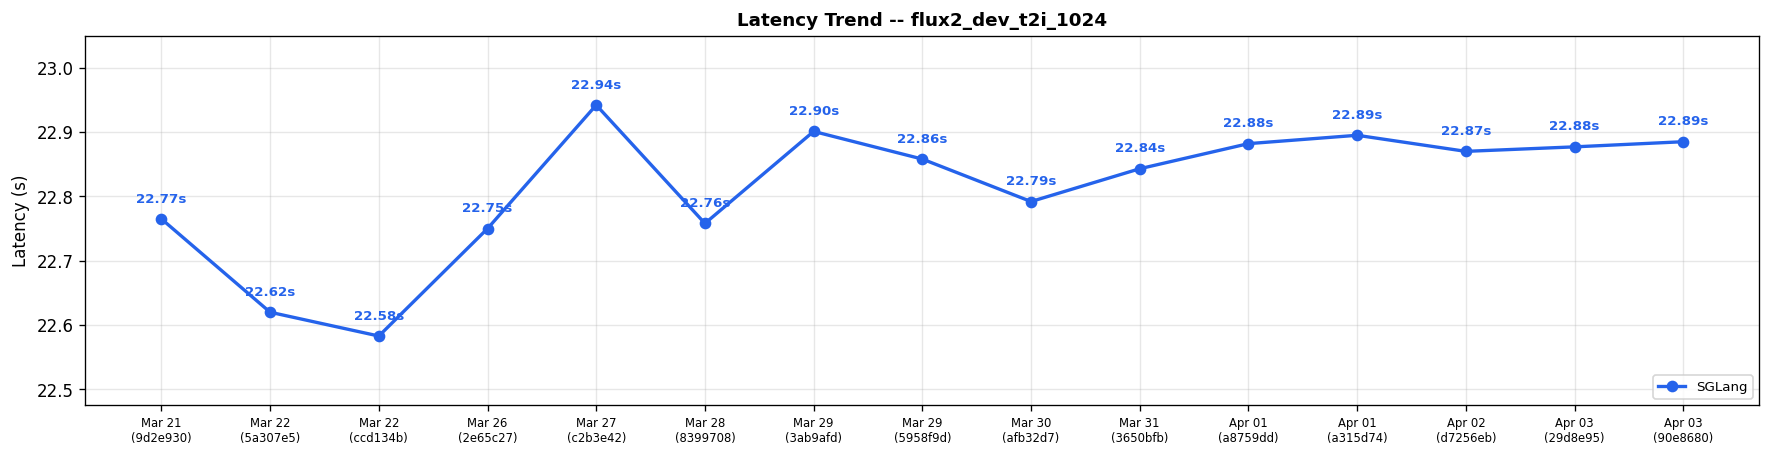
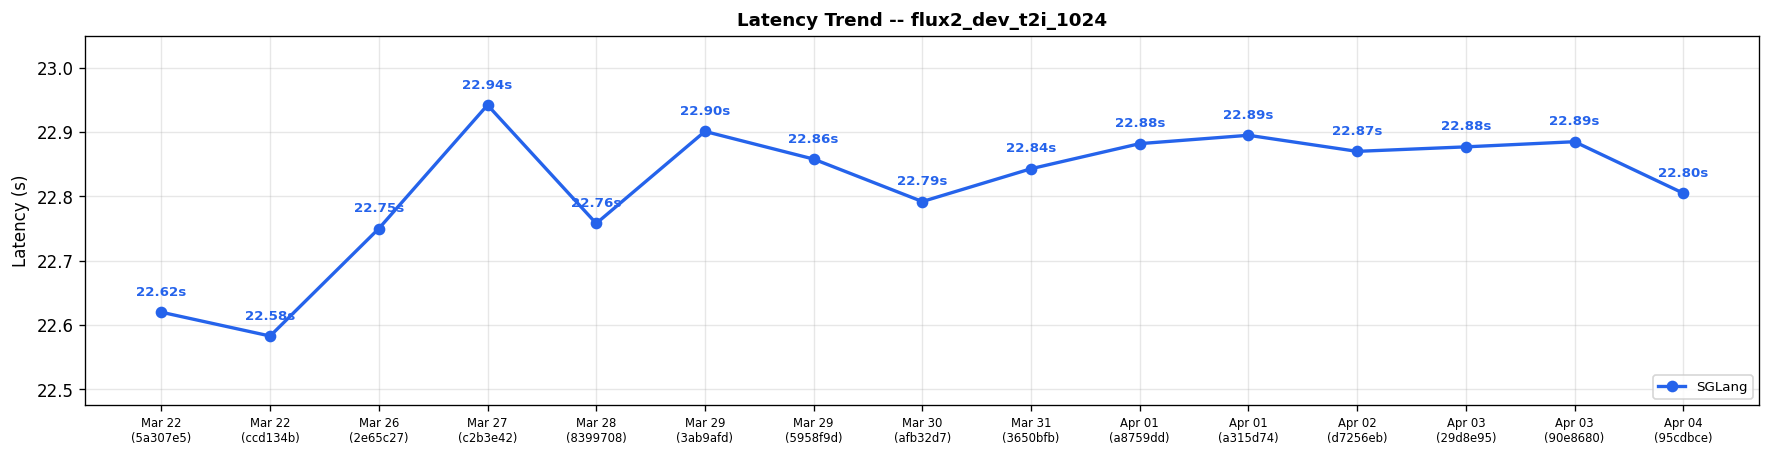
Diffusion comparison results for run 23967509528 (#553)

diff --git a/diffusion-comparisons/dashboard.md b/diffusion-comparisons/dashboard.md
@@ -1,24 +1,25 @@
 # Diffusion Cross-Framework Performance Dashboard
 
-*Generated: Apr 03 | Commit: `90e8680`*
+*Generated: Apr 04 | Commit: `95cdbce`*
 
 ## Cross-Framework Performance Comparison
 
 | Model | Risk | sglang (s) |
 |-------|------|---------|
-| FLUX.1-dev | ✅ | **6.72** |
-| FLUX.2-dev | ✅ | **22.89** |
-| Qwen-Image-2512 | ✅ | **13.57** |
-| Qwen-Image-Edit-2511 | ✅ | **29.56** |
+| FLUX.1-dev | ✅ | **6.68** |
+| FLUX.2-dev | ✅ | **22.80** |
+| Qwen-Image-2512 | ✅ | **13.51** |
+| Qwen-Image-Edit-2511 | ✅ | **29.41** |
 | Z-Image-Turbo | ✅ | **0.93** |
-| Wan2.2-T2V-A14B-Diffusers | ✅ | **16.09** |
-| Wan2.2-TI2V-5B-Diffusers | ✅ | **62.17** |
-| Wan2.2-I2V-A14B-Diffusers | ✅ | **21.06** |
+| Wan2.2-T2V-A14B-Diffusers | ✅ | **16.14** |
+| Wan2.2-TI2V-5B-Diffusers | ✅ | **63.19** |
+| Wan2.2-I2V-A14B-Diffusers | ✅ | **21.07** |
 
 ## SGLang Performance Trend (Last 15 Runs)
 
 | Date | Commit | flux1_dev_t2i_1024 (s) | flux2_dev_t2i_1024 (s) | qwen_image_2512_t2i_1024 (s) | qwen_image_edit_2511 (s) | zimage_turbo_t2i_1024 (s) | wan22_t2v_a14b_720p (s) | wan22_ti2v_5b_720p (s) | wan22_i2v_a14b_720p (s) | Trend |
 |------|--------|---------|---------|---------|---------|---------|---------|---------|---------|-------|
+| Apr 04 | `95cdbce` | 6.68 | 22.80 | 13.51 | 29.41 | 0.93 | 16.14 | 63.19 | 21.07 | :left_right_arrow:  :left_right_arrow:  :left_right_arrow:  :left_right_arrow:  :left_right_arrow:  :left_right_arrow:  :left_right_arrow:  :left_right_arrow: |
 | Apr 03 | `90e8680` | 6.72 | 22.89 | 13.57 | 29.56 | 0.93 | 16.09 | 62.17 | 21.06 | :left_right_arrow:  :left_right_arrow:  :left_right_arrow:  :left_right_arrow:  :left_right_arrow:  :arrow_down:  :left_right_arrow:  :left_right_arrow: |
 | Apr 03 | `29d8e95` | 6.69 | 22.88 | 13.55 | 29.62 | 0.93 | 16.57 | 62.18 | 21.07 | :left_right_arrow:  :left_right_arrow:  :arrow_up:  :left_right_arrow:  :left_right_arrow:  :arrow_up:  :left_right_arrow:  :arrow_down: |
 | Apr 02 | `d7256eb` | 6.70 | 22.87 | 13.18 | 29.59 | 0.93 | 16.11 | 62.20 | 22.07 | :left_right_arrow:  :left_right_arrow:  :left_right_arrow:  :left_right_arrow:  :left_right_arrow:  :left_right_arrow:  :left_right_arrow:  :left_right_arrow: |
@@ -32,8 +33,7 @@
 | Mar 27 | `c2b3e42` | 6.70 | 22.94 | 13.18 | 29.64 | 0.93 | 16.11 | 62.21 | 10.04 | :left_right_arrow:  :left_right_arrow:  :left_right_arrow:  :left_right_arrow:  :left_right_arrow:  :left_right_arrow:  :left_right_arrow:  :left_right_arrow: |
 | Mar 26 | `2e65c27` | 6.77 | 22.75 | 13.31 | 29.84 | 0.94 | 16.06 | 62.23 | 10.04 | :left_right_arrow:  :left_right_arrow:  :arrow_down:  :left_right_arrow:  :arrow_down:  :left_right_arrow:  :left_right_arrow:  :left_right_arrow: |
 | Mar 22 | `ccd134b` | 6.69 | 22.58 | 13.58 | 29.97 | 1.96 | 16.10 | 62.17 | 10.04 | :left_right_arrow:  :left_right_arrow:  :arrow_down:  :left_right_arrow:  :arrow_down:  :left_right_arrow:  :left_right_arrow:  :left_right_arrow: |
-| Mar 22 | `5a307e5` | 6.70 | 22.62 | 14.09 | 30.14 | 2.01 | 16.13 | 62.20 | 10.04 | :left_right_arrow:  :left_right_arrow:  :arrow_up:  :left_right_arrow:  :arrow_up:  :left_right_arrow:  :left_right_arrow:  :arrow_up: |
-| Mar 21 | `9d2e930` | 6.77 | 22.77 | 13.71 | 30.39 | 1.93 | 16.14 | 62.15 | 9.03 | -- |
+| Mar 22 | `5a307e5` | 6.70 | 22.62 | 14.09 | 30.14 | 2.01 | 16.13 | 62.20 | 10.04 | -- |
 
 ### Latency Trend: flux1_dev_t2i_1024
 
